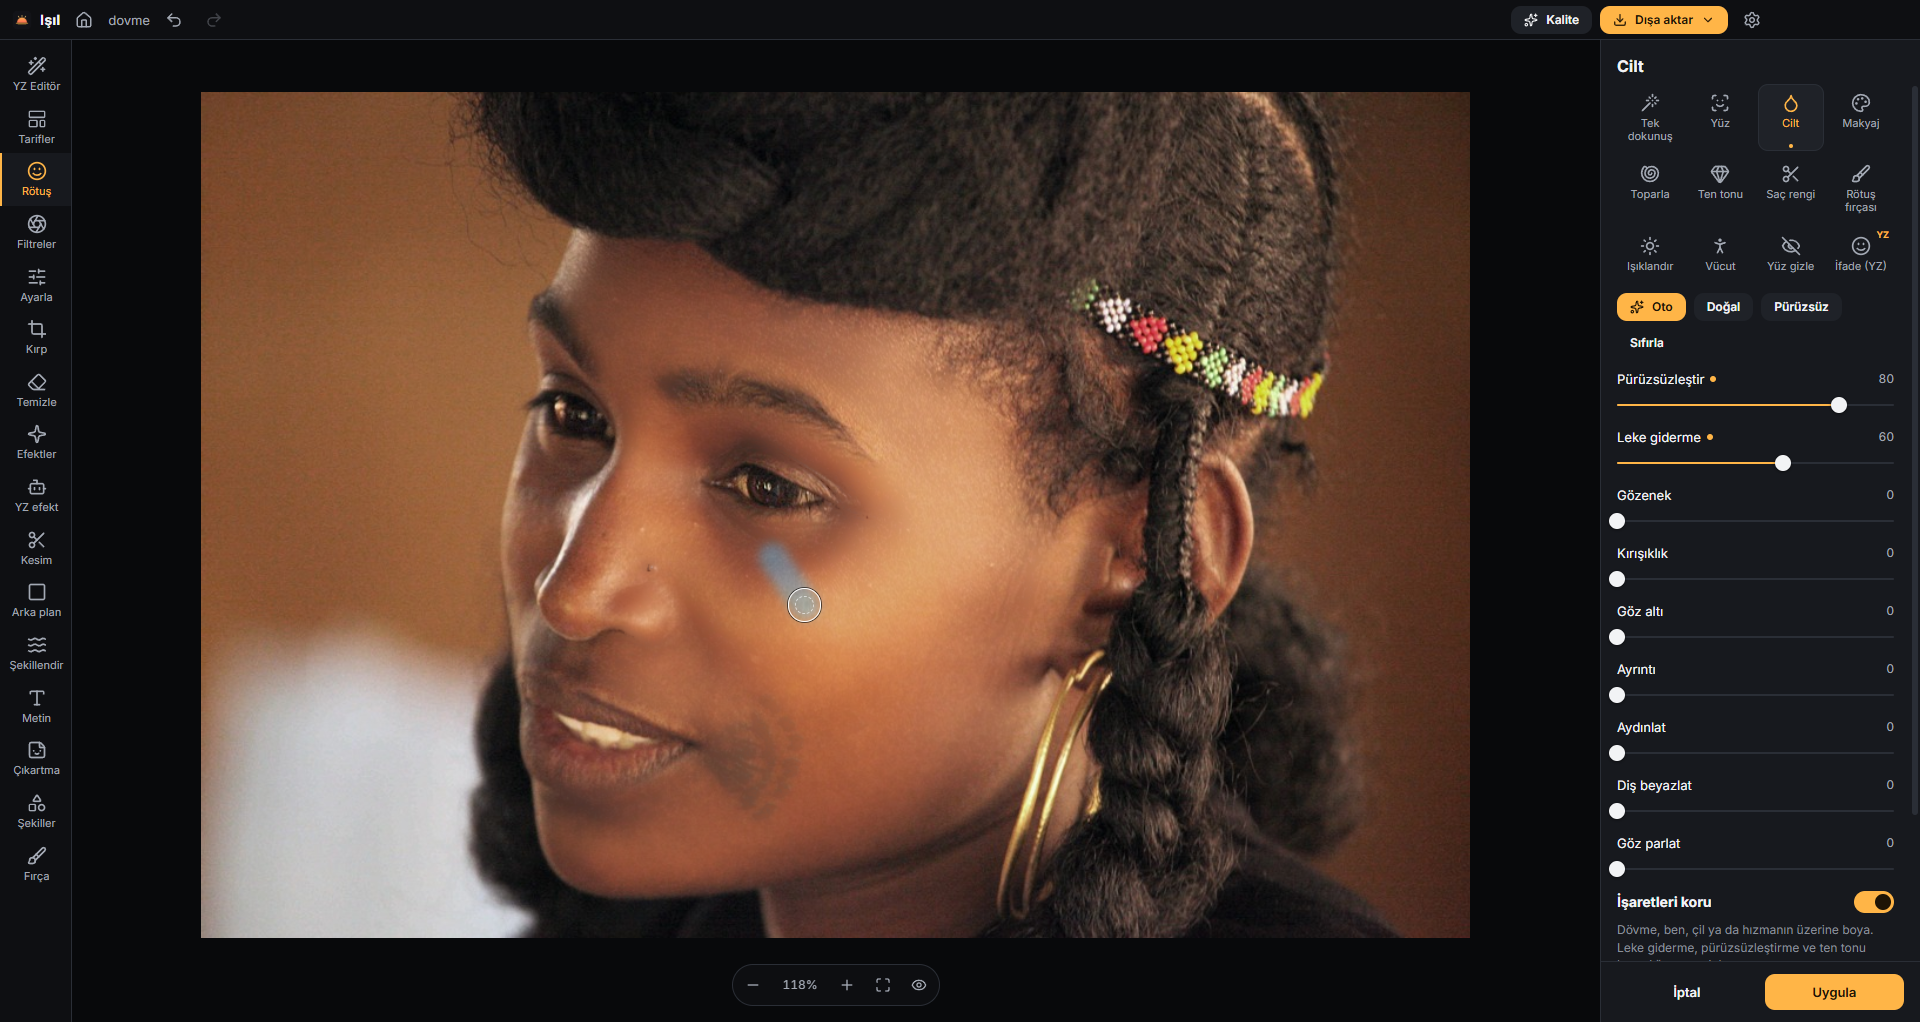
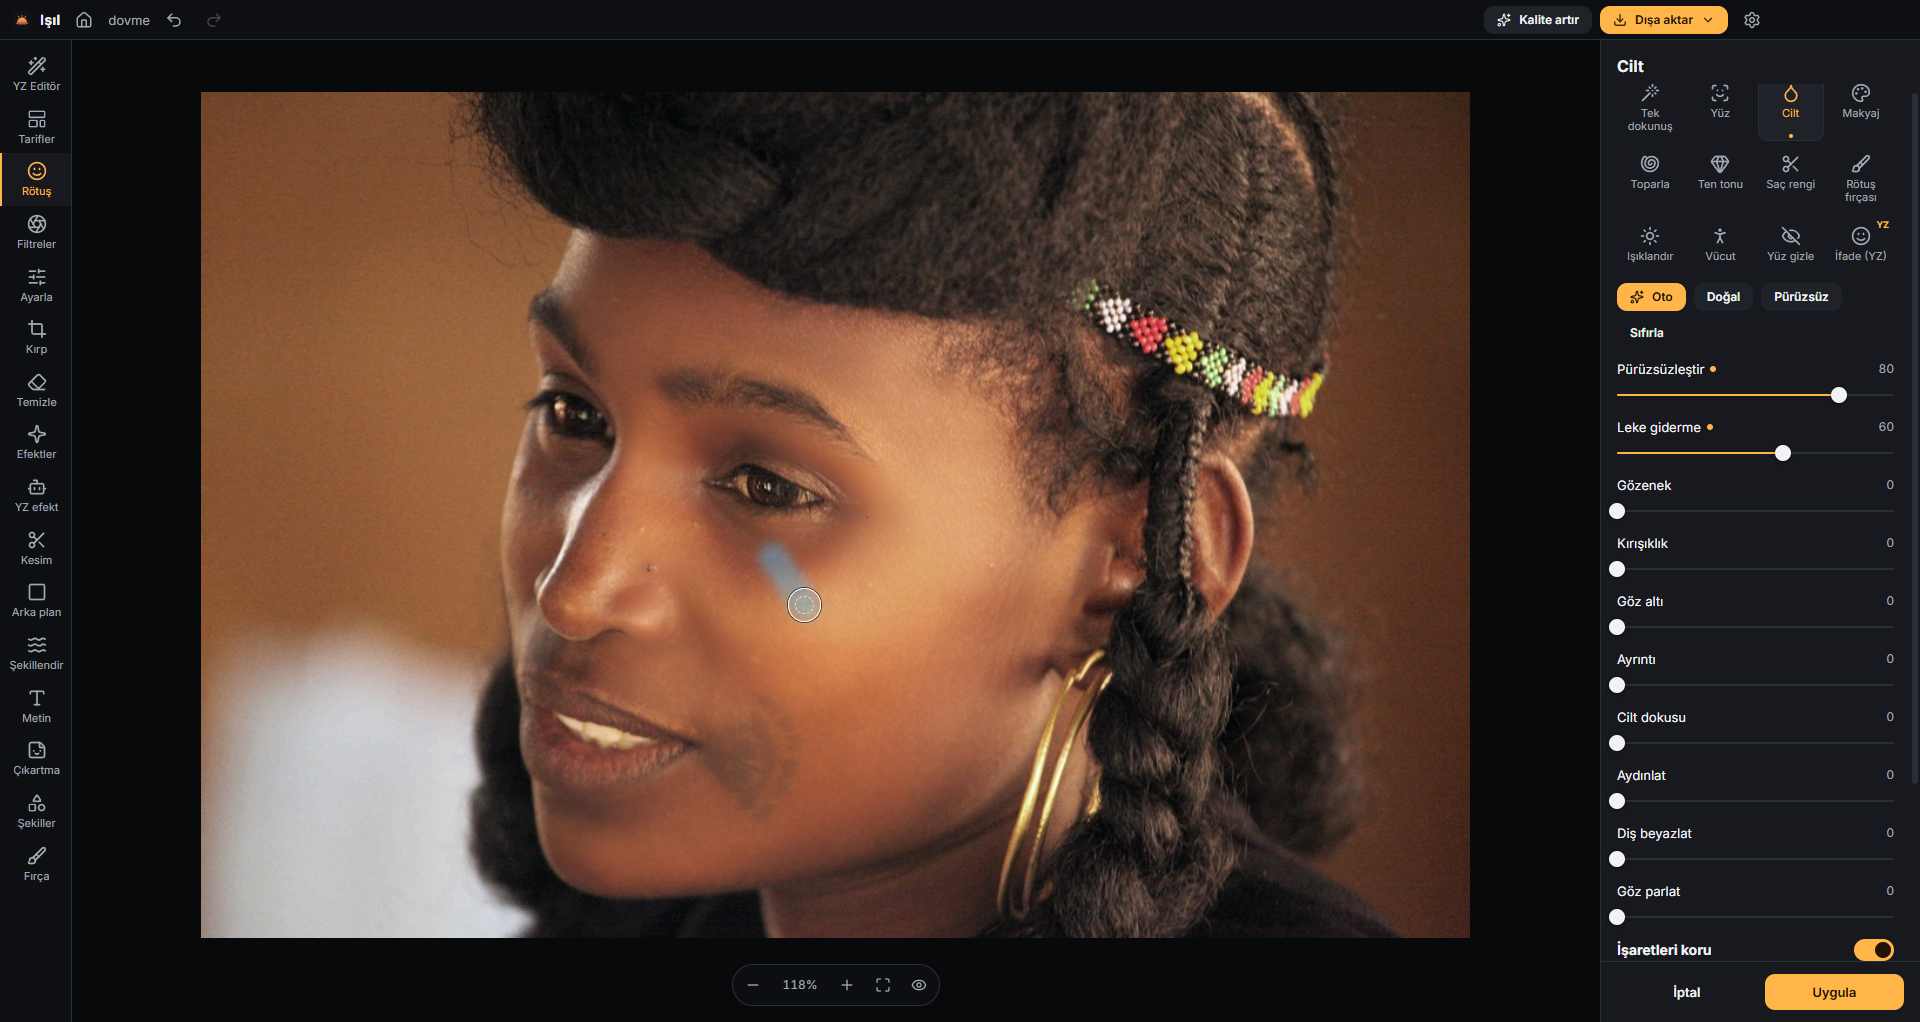
Cilt: Cilt dokusu kaydırıcısı (yapay gözenek dokusu)
skintexture 3/3, protect 6/6.

diff --git a/src/renderer/src/tools/retouch.tsx b/src/renderer/src/tools/retouch.tsx
@@ -100,7 +100,7 @@ function FaceShapePanel() {
 // ---------------- Cilt ----------------
 const SKIN_KEYS: SliderDef[] = [
   ['smooth', 'Pürüzsüzleştir', 'Smooth'], ['blemish', 'Leke giderme', 'Blemishes'], ['pores', 'Gözenek', 'Pores'], ['wrinkle', 'Kırışıklık', 'Wrinkles'],
-  ['undereye', 'Göz altı', 'Dark circles'], ['detail', 'Ayrıntı', 'Detail'], ['whiten', 'Aydınlat', 'Brighten'], ['teeth', 'Diş beyazlat', 'Whiten teeth'],
+  ['undereye', 'Göz altı', 'Dark circles'], ['detail', 'Ayrıntı', 'Detail'], ['texture', 'Cilt dokusu', 'Skin texture'], ['whiten', 'Aydınlat', 'Brighten'], ['teeth', 'Diş beyazlat', 'Whiten teeth'],
   ['eyes', 'Göz parlat', 'Brighten eyes']
 ]
 
@@ -114,9 +114,9 @@ function SkinPanel() {
     <>
       <NoFace />
       <div className="row wrap" style={{ marginBottom: 8 }}>
-        <button className="btn sm primary" onClick={() => set({ smooth: 45, blemish: 60, undereye: 40, eyes: 25, teeth: 30, whiten: 10, pores: 30 })}><Sparkles size={14} /> {tr('Oto', 'Auto')}</button>
+        <button className="btn sm primary" onClick={() => set({ smooth: 45, blemish: 60, undereye: 40, eyes: 25, teeth: 30, whiten: 10, pores: 30, texture: 20 })}><Sparkles size={14} /> {tr('Oto', 'Auto')}</button>
         <button className="btn sm" onClick={() => set({ smooth: 25, blemish: 40, undereye: 25, pores: 15 })}>{tr('Doğal', 'Natural')}</button>
-        <button className="btn sm" onClick={() => set({ smooth: 70, blemish: 80, undereye: 55, whiten: 20, pores: 60, wrinkle: 40 })}>{tr('Pürüzsüz', 'Flawless')}</button>
+        <button className="btn sm" onClick={() => set({ smooth: 70, blemish: 80, undereye: 55, whiten: 20, pores: 60, wrinkle: 40, texture: 30 })}>{tr('Pürüzsüz', 'Flawless')}</button>
         <button className="btn sm ghost" onClick={() => update((d) => editFace(d, idx, (x) => void (x.skin = {})))}>{tr('Sıfırla', 'Reset')}</button>
       </div>
       {SKIN_KEYS.map(([k, a, b]) => (

diff --git a/src/renderer/src/engine/shaders.ts b/src/renderer/src/engine/shaders.ts
@@ -58,6 +58,7 @@ uniform vec4 uBlush[8];
 uniform vec4 uLid[8];
 uniform vec4 uBrow[8];
 uniform vec4 uSculpt[8]; // kontür, aydınlatıcı, dolgun ışık, kırışık
+uniform vec4 uSkinX[8];  // doku (yapay gözenek), -, -, -
 uniform vec4 uHair;      // saç rengi + miktar
 uniform float uHairOn;
 ${COMMON}
@@ -92,6 +93,21 @@ void main(){
     col = mix(col, col - high * 0.6, keep * uSculpt[id].w * 0.8);
     // ayrıntı/doku geri kazanma
     col += high * skin * uTone[id].w * 0.8;
+    // cilt dokusu: yumuşatmanın sildiği gözenek dokusunu geri ver. İki ölçekli değer gürültüsü (gözenek ~2-3 px,
+    // daha büyük düzensizlik ~9 px), aydınlıkla orantılı; korunan işaretlerin üstüne de uygulanmaz
+    float tx = uSkinX[id].x;
+    if (tx > 0.0) {
+      vec2 px = vUv * vec2(textureSize(uBase, 0));
+      // pürüzsüz değer gürültüsü (çift doğrusal), blok görünmesin
+      vec2 q = px / 2.2, fq = fract(q), iq = floor(q);
+      fq = fq * fq * (3.0 - 2.0 * fq);
+      float n1 = mix(mix(hash12(iq), hash12(iq + vec2(1, 0)), fq.x), mix(hash12(iq + vec2(0, 1)), hash12(iq + vec2(1, 1)), fq.x), fq.y) - 0.5;
+      vec2 q2 = px / 8.0, f2 = fract(q2), i2 = floor(q2) + 31.0;
+      f2 = f2 * f2 * (3.0 - 2.0 * f2);
+      float n2 = mix(mix(hash12(i2), hash12(i2 + vec2(1, 0)), f2.x), mix(hash12(i2 + vec2(0, 1)), hash12(i2 + vec2(1, 1)), f2.x), f2.y) - 0.5;
+      float pore = n1 * 0.8 + n2 * 0.35;
+      col *= 1.0 + pore * 0.26 * tx * keep * (0.4 + luma(col));
+    }
     // cilt aydınlatma
     vec3 lift = col + (1.0 - col) * 0.22;
     lift = mix(vec3(luma(lift)), lift, 0.9);

diff --git a/src/renderer/src/engine/renderer.ts b/src/renderer/src/engine/renderer.ts
@@ -6,11 +6,11 @@ import { effectById, filterById, type Tint } from './presets'
 
 export interface FaceUniforms {
   skin: Float32Array; skin2: Float32Array; tone: Float32Array
-  lip: Float32Array; blush: Float32Array; lid: Float32Array; brow: Float32Array; sculpt: Float32Array
+  lip: Float32Array; blush: Float32Array; lid: Float32Array; brow: Float32Array; sculpt: Float32Array; skinX: Float32Array
 }
 export function emptyFaceUniforms(): FaceUniforms {
   const z = () => new Float32Array(32)
-  return { skin: z(), skin2: z(), tone: z(), lip: z(), blush: z(), lid: z(), brow: z(), sculpt: z() }
+  return { skin: z(), skin2: z(), tone: z(), lip: z(), blush: z(), lid: z(), brow: z(), sculpt: z(), skinX: z() }
 }
 
 export interface RenderOptions {
@@ -183,7 +183,7 @@ export class Renderer {
       .tex('uMaskA', 3, this.maskA.tex).tex('uMaskB', 4, (this.maskB ?? this.blank).tex).tex('uMaskC', 5, (this.maskC ?? this.blank).tex)
       .tex('uMaskP', 6, (this.maskP ?? this.blank).tex)
       .fv('uSkin', f.skin, 4).fv('uSkin2', f.skin2, 4).fv('uTone', f.tone, 4).fv('uLip', f.lip, 4)
-      .fv('uBlush', f.blush, 4).fv('uLid', f.lid, 4).fv('uBrow', f.brow, 4).fv('uSculpt', f.sculpt, 4)
+      .fv('uBlush', f.blush, 4).fv('uLid', f.lid, 4).fv('uBrow', f.brow, 4).fv('uSculpt', f.sculpt, 4).fv('uSkinX', f.skinX, 4)
     if (this.hair && this.hair.amount > 0) p.f('uHair', ...this.hair.rgb, this.hair.amount).f('uHairOn', 1)
     else p.f('uHairOn', 0)
     this.draw(out, src.w, src.h)

diff --git a/src/renderer/src/engine/face.ts b/src/renderer/src/engine/face.ts
@@ -668,6 +668,7 @@ export function faceUniforms(edits: FaceEdit[], count: number): FaceUniforms {
     u.lid.set(mk('lid', '#8a5a6a'), o)
     u.brow.set(mk('brow', '#4a3426'), o)
     u.sculpt.set([k('contour'), k('highlight'), k('plumpLight'), k('wrinkle')], o)
+    u.skinX.set([k('texture'), 0, 0, 0], o)
   }
   return u
 }

diff --git a/CHANGELOG.md b/CHANGELOG.md
@@ -2,6 +2,10 @@
 
 Her büyük güncellemede sürüm numarası artırılır (`npm version <x.y.z> --no-git-tag-version`), uygulama Ayarlar → Hakkında'da sürümü gösterir.
 
+## Yayımlanmamış
+
+- Rötuş → Cilt → **Cilt dokusu**: pürüzsüzleştirmenin sildiği gözenek dokusu iki ölçekli yumuşak gürültüyle geri verilir (yanak yüksek frekans enerjisi 153 → 189, orijinal 335); korunan işaretlere uygulanmaz. Oto ve Pürüzsüz düğmeleri dokuyu da kullanır
+
 ## 0.7.0 — 2026-10-17
 
 Rakip taramasının (replica/rekabet/eksikler-0.6.md) ilk üç maddesi.
